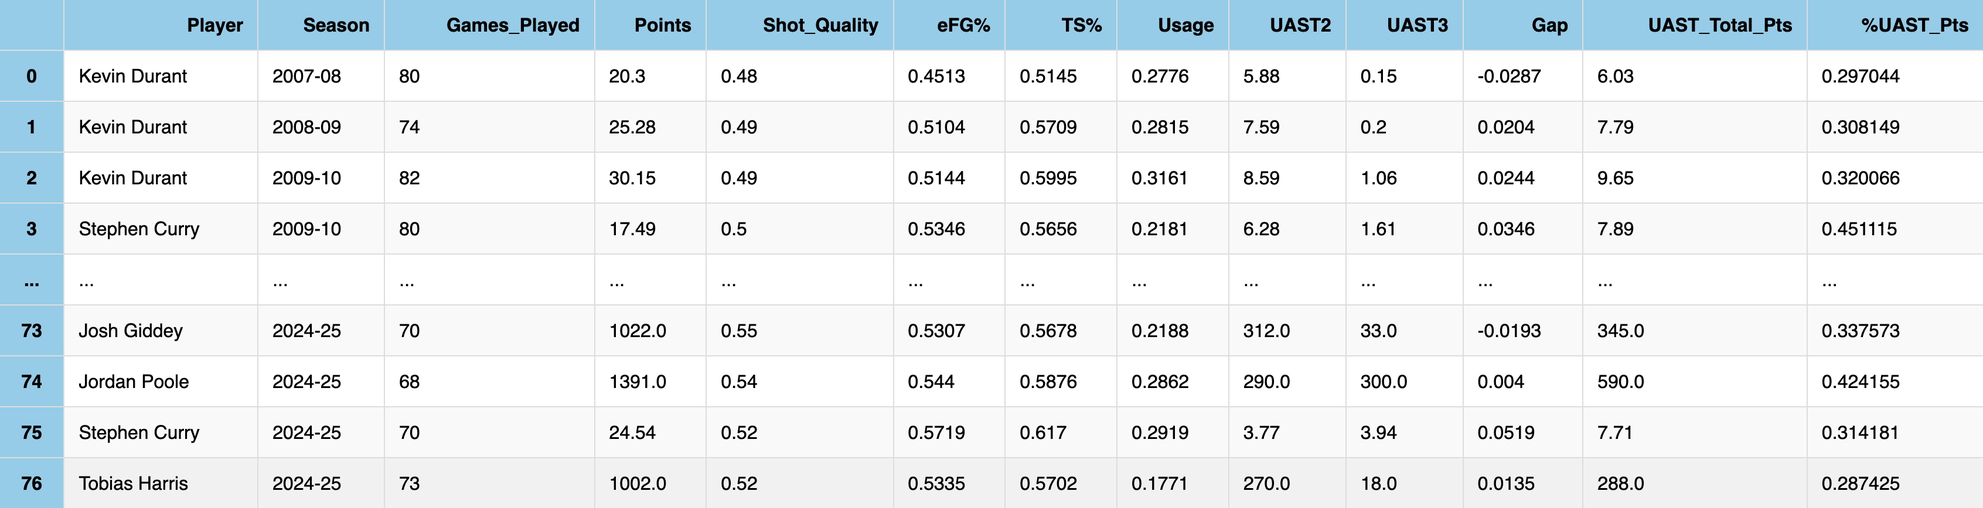
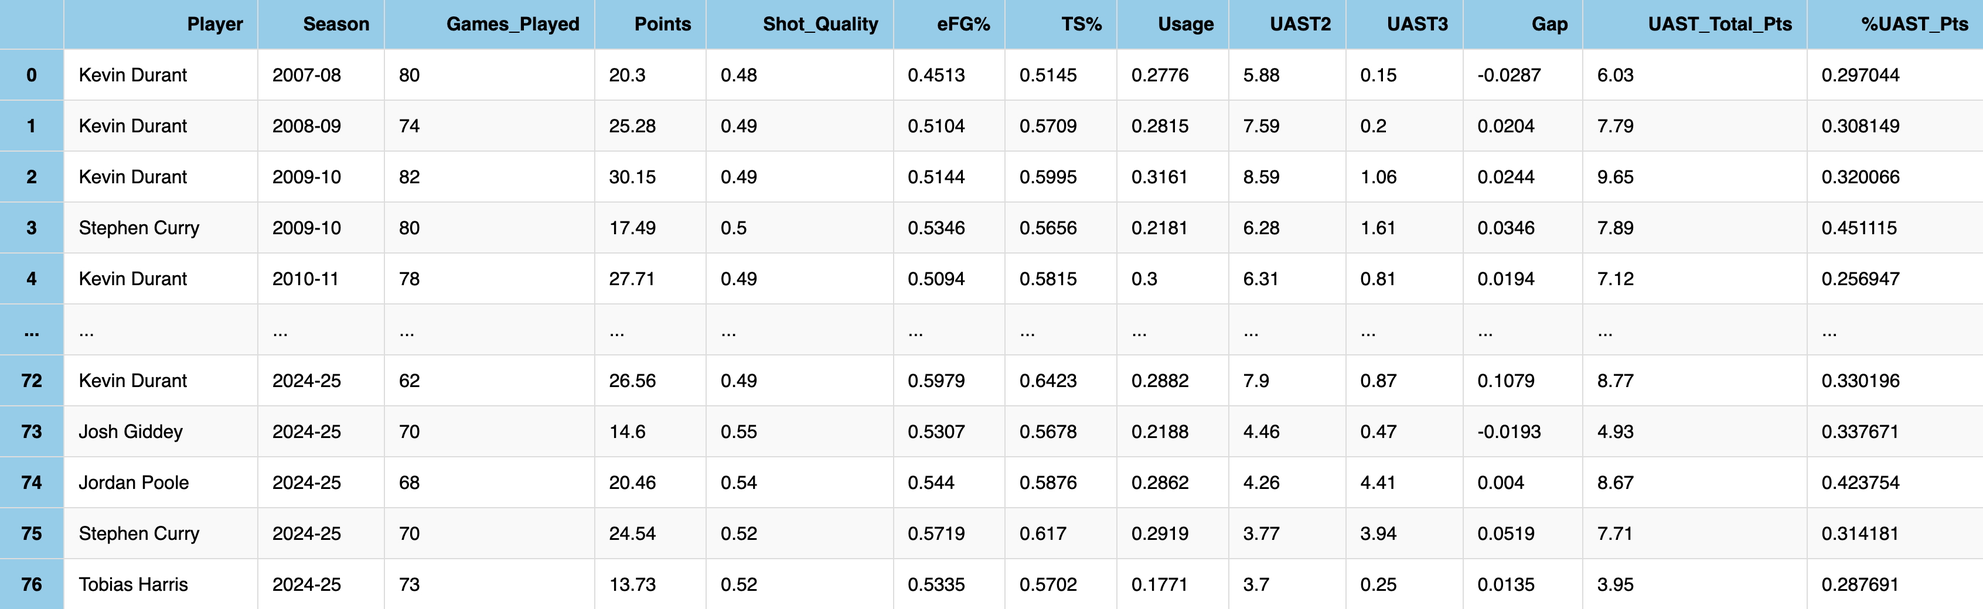
fixed error

diff --git a/img/self_created_scatter.html b/img/self_created_scatter.html
@@ -2,6 +2,6 @@
 <head><meta charset="utf-8" /></head>
 <body>
     <div>                        <script type="text/javascript">window.PlotlyConfig = {MathJaxConfig: 'local'};</script>
-        <script charset="utf-8" src="https://cdn.plot.ly/plotly-3.0.1.min.js" integrity="sha256-oy6Be7Eh6eiQFs5M7oXuPxxm9qbJXEtTpfSI93dW16Q=" crossorigin="anonymous"></script>                <div id="f269350f-81d9-4e6c-89c8-cefa861ba0f2" class="plotly-graph-div" style="height:600px; width:900px;"></div>            <script type="text/javascript">                window.PLOTLYENV=window.PLOTLYENV || {};                                if (document.getElementById("f269350f-81d9-4e6c-89c8-cefa861ba0f2")) {                    Plotly.newPlot(                        "f269350f-81d9-4e6c-89c8-cefa861ba0f2",                        [{"marker":{"color":"skyblue","line":{"color":"white","width":1},"size":10},"mode":"markers+text","name":"Player TS%","text":["Klay Thompson","Kyle Kuzma","Tobias Harris","Stephen Curry","Kevin Durant","Josh Giddey"],"textposition":"top right","x":{"dtype":"f8","bdata":"Y80IhLwLwD\u002fS2lLS2lLSPzfEgHQsZdI\u002fzHPfU4ob1D9vNHV+7SHVP61Zs2bNmtU\u002f"},"y":{"dtype":"f8","bdata":"93XgnBGl4T\u002fEQq1p3nHgPwK8BRIUP+I\u002fWDm0yHa+4z\u002fMEMe6uI3kP89m1edqK+I\u002f"},"type":"scatter"},{"marker":{"color":"skyblue","line":{"color":"white","width":1},"size":10},"mode":"markers+text","showlegend":false,"text":["Jordan Poole"],"textposition":"middle left","x":{"dtype":"f8","bdata":"hnZENFwl2z8="},"y":{"dtype":"f8","bdata":"ryXkg57N4j8="},"type":"scatter"},{"hoverinfo":"skip","line":{"color":"coral","dash":"dash","width":2},"mode":"lines","name":"Regression Line","x":{"dtype":"f8","bdata":"Y80IhLwLwD+LfZ2dom7AP7QtMreI0cA\u002f3N3G0G40wT8FjlvqVJfBPy0+8AM7+sE\u002fVu6EHSFdwj9+nhk3B8DCP6dOrlDtIsM\u002fz\u002f5CatOFwz\u002f4rteDuejDPyBfbJ2fS8Q\u002fSQ8Bt4WuxD9xv5XQaxHFP5pvKupRdMU\u002fwh+\u002fAzjXxT\u002frz1MdHjrGPxOA6DYEncY\u002fPDB9UOr\u002fxj9k4BFq0GLHP42QpoO2xcc\u002ftUA7nZwoyD\u002fe8M+2govIPwahZNBo7sg\u002fLlH56U5RyT9XAY4DNbTJP4CxIh0bF8o\u002fqGG3NgF6yj\u002fQEUxQ59zKP\u002fnB4GnNP8s\u002fInJ1g7Oiyz9KIgqdmQXMP3LSnrZ\u002faMw\u002fm4Iz0GXLzD\u002fEMsjpSy7NP+ziXAMykc0\u002fFJPxHBj0zT89Q4Y2\u002flbOP2bzGlDkuc4\u002fjqOvacoczz+2U0SDsH\u002fPP98D2ZyW4s8\u002fBNo2W74i0D8YMgFoMVTQPyyKy3SkhdA\u002fQOKVgRe30D9UOmCOiujQP2mSKpv9GdE\u002ffer0p3BL0T+SQr+043zRP6aaicFWrtE\u002fuvJTzsnf0T\u002fOSh7bPBHSP+Ki6OevQtI\u002f9vqy9CJ00j8LU30BlqXSPx+rRw4J19I\u002fNAMSG3wI0z9IW9wn7znTP1yzpjRia9M\u002fcAtxQdWc0z+EYztOSM7TP5i7BVu7\u002f9M\u002frRPQZy4x1D\u002fBa5p0oWLUP9XDZIEUlNQ\u002f6hsvjofF1D\u002f+c\u002fma+vbUPxLMw6dtKNU\u002fJiSOtOBZ1T86fFjBU4vVP07UIs7GvNU\u002fYyzt2jnu1T93hLfnrB\u002fWP4zcgfQfUdY\u002foDRMAZOC1j+0jBYOBrTWP8jk4Bp55dY\u002f3DyrJ+wW1z\u002fwlHU0X0jXPwXtP0HSedc\u002fGUUKTkWr1z8undRauNzXP0L1nmcrDtg\u002fVk1pdJ4\u002f2D9qpTOBEXHYP379\u002fY2Eotg\u002fklXImvfT2D+mrZKnagXZP7wFXbTdNtk\u002f0F0nwVBo2T\u002fktfHNw5nZP\u002fgNvNo2y9k\u002fDGaG56n82T8gvlD0HC7aPzQWGwGQX9o\u002fSG7lDQOR2j9cxq8adsLaP3Ieeifp89o\u002fhnZENFwl2z8="},"y":{"dtype":"f8","bdata":"Aa0WXiB94T\u002fcUmv3pYHhP7f4v5ArhuE\u002fkp4UKrGK4T9tRGnDNo\u002fhP0jqvVy8k+E\u002fI5AS9kGY4T\u002f+NWePx5zhP9nbuyhNoeE\u002ftIEQwtKl4T+PJ2VbWKrhP2rNufTdruE\u002fRXMOjmOz4T8gGWMn6bfhP\u002fu+t8BuvOE\u002f1mQMWvTA4T+xCmHzecXhP4ywtYz\u002fyeE\u002fZ1YKJoXO4T9C\u002fF6\u002fCtPhPx2is1iQ1+E\u002f+EcI8hXc4T\u002fT7VyLm+DhP66TsSQh5eE\u002fiDkGvqbp4T9k31pXLO7hPz6Fr\u002fCx8uE\u002fGSsEijf34T\u002f00FgjvfvhP892rbxCAOI\u002fqhwCVsgE4j+FwlbvTQniP2Boq4jTDeI\u002fOw4AIlkS4j8WtFS73hbiP\u002fFZqVRkG+I\u002fzP\u002f97ekf4j+npVKHbyTiP4JLpyD1KOI\u002fXfH7uXot4j84l1BTADLiPxM9peyFNuI\u002f7uL5hQs74j\u002fJiE4fkT\u002fiP6Quo7gWROI\u002ff9T3UZxI4j9aekzrIU3iPzUgoYSnUeI\u002fEMb1HS1W4j\u002fra0q3slriP8YRn1A4X+I\u002fobfz6b1j4j98XUiDQ2jiP1cDnRzJbOI\u002fMqnxtU5x4j8NT0ZP1HXiP+j0muhZeuI\u002fw5rvgd9+4j+eQEQbZYPiP3nmmLTqh+I\u002fVIztTXCM4j8vMkLn9ZDiPwrYloB7leI\u002f5X3rGQGa4j\u002fAI0Czhp7iP5rJlEwMo+I\u002fdm\u002fp5ZGn4j9QFT5\u002fF6ziPyu7khidsOI\u002fBmHnsSK14j\u002fhBjxLqLniP7yskOQtvuI\u002fl1LlfbPC4j9y+DkXOcfiP02ejrC+y+I\u002fKETjSUTQ4j8D6jfjydTiP96PjHxP2eI\u002fuTXhFdXd4j+U2zWvWuLiP2+Bikjg5uI\u002fSiff4WXr4j8lzTN76+\u002fiPwBziBRx9OI\u002f2xjdrfb44j+2vjFHfP3iP5FkhuABAuM\u002fbArbeYcG4z9HsC8TDQvjPyJWhKySD+M\u002f\u002ffvYRRgU4z\u002fYoS3fnRjjP7NHgngjHeM\u002fju3WEakh4z9pkyurLibjP0Q5gES0KuM\u002fH9\u002fU3Tkv4z\u002f6hCl3vzPjP9UqfhBFOOM\u002fsNDSqco84z8="},"type":"scatter"}],                        {"template":{"data":{"barpolar":[{"marker":{"line":{"color":"white","width":0.5},"pattern":{"fillmode":"overlay","size":10,"solidity":0.2}},"type":"barpolar"}],"bar":[{"error_x":{"color":"#2a3f5f"},"error_y":{"color":"#2a3f5f"},"marker":{"line":{"color":"white","width":0.5},"pattern":{"fillmode":"overlay","size":10,"solidity":0.2}},"type":"bar"}],"carpet":[{"aaxis":{"endlinecolor":"#2a3f5f","gridcolor":"#C8D4E3","linecolor":"#C8D4E3","minorgridcolor":"#C8D4E3","startlinecolor":"#2a3f5f"},"baxis":{"endlinecolor":"#2a3f5f","gridcolor":"#C8D4E3","linecolor":"#C8D4E3","minorgridcolor":"#C8D4E3","startlinecolor":"#2a3f5f"},"type":"carpet"}],"choropleth":[{"colorbar":{"outlinewidth":0,"ticks":""},"type":"choropleth"}],"contourcarpet":[{"colorbar":{"outlinewidth":0,"ticks":""},"type":"contourcarpet"}],"contour":[{"colorbar":{"outlinewidth":0,"ticks":""},"colorscale":[[0.0,"#0d0887"],[0.1111111111111111,"#46039f"],[0.2222222222222222,"#7201a8"],[0.3333333333333333,"#9c179e"],[0.4444444444444444,"#bd3786"],[0.5555555555555556,"#d8576b"],[0.6666666666666666,"#ed7953"],[0.7777777777777778,"#fb9f3a"],[0.8888888888888888,"#fdca26"],[1.0,"#f0f921"]],"type":"contour"}],"heatmap":[{"colorbar":{"outlinewidth":0,"ticks":""},"colorscale":[[0.0,"#0d0887"],[0.1111111111111111,"#46039f"],[0.2222222222222222,"#7201a8"],[0.3333333333333333,"#9c179e"],[0.4444444444444444,"#bd3786"],[0.5555555555555556,"#d8576b"],[0.6666666666666666,"#ed7953"],[0.7777777777777778,"#fb9f3a"],[0.8888888888888888,"#fdca26"],[1.0,"#f0f921"]],"type":"heatmap"}],"histogram2dcontour":[{"colorbar":{"outlinewidth":0,"ticks":""},"colorscale":[[0.0,"#0d0887"],[0.1111111111111111,"#46039f"],[0.2222222222222222,"#7201a8"],[0.3333333333333333,"#9c179e"],[0.4444444444444444,"#bd3786"],[0.5555555555555556,"#d8576b"],[0.6666666666666666,"#ed7953"],[0.7777777777777778,"#fb9f3a"],[0.8888888888888888,"#fdca26"],[1.0,"#f0f921"]],"type":"histogram2dcontour"}],"histogram2d":[{"colorbar":{"outlinewidth":0,"ticks":""},"colorscale":[[0.0,"#0d0887"],[0.1111111111111111,"#46039f"],[0.2222222222222222,"#7201a8"],[0.3333333333333333,"#9c179e"],[0.4444444444444444,"#bd3786"],[0.5555555555555556,"#d8576b"],[0.6666666666666666,"#ed7953"],[0.7777777777777778,"#fb9f3a"],[0.8888888888888888,"#fdca26"],[1.0,"#f0f921"]],"type":"histogram2d"}],"histogram":[{"marker":{"pattern":{"fillmode":"overlay","size":10,"solidity":0.2}},"type":"histogram"}],"mesh3d":[{"colorbar":{"outlinewidth":0,"ticks":""},"type":"mesh3d"}],"parcoords":[{"line":{"colorbar":{"outlinewidth":0,"ticks":""}},"type":"parcoords"}],"pie":[{"automargin":true,"type":"pie"}],"scatter3d":[{"line":{"colorbar":{"outlinewidth":0,"ticks":""}},"marker":{"colorbar":{"outlinewidth":0,"ticks":""}},"type":"scatter3d"}],"scattercarpet":[{"marker":{"colorbar":{"outlinewidth":0,"ticks":""}},"type":"scattercarpet"}],"scattergeo":[{"marker":{"colorbar":{"outlinewidth":0,"ticks":""}},"type":"scattergeo"}],"scattergl":[{"marker":{"colorbar":{"outlinewidth":0,"ticks":""}},"type":"scattergl"}],"scattermapbox":[{"marker":{"colorbar":{"outlinewidth":0,"ticks":""}},"type":"scattermapbox"}],"scattermap":[{"marker":{"colorbar":{"outlinewidth":0,"ticks":""}},"type":"scattermap"}],"scatterpolargl":[{"marker":{"colorbar":{"outlinewidth":0,"ticks":""}},"type":"scatterpolargl"}],"scatterpolar":[{"marker":{"colorbar":{"outlinewidth":0,"ticks":""}},"type":"scatterpolar"}],"scatter":[{"fillpattern":{"fillmode":"overlay","size":10,"solidity":0.2},"type":"scatter"}],"scatterternary":[{"marker":{"colorbar":{"outlinewidth":0,"ticks":""}},"type":"scatterternary"}],"surface":[{"colorbar":{"outlinewidth":0,"ticks":""},"colorscale":[[0.0,"#0d0887"],[0.1111111111111111,"#46039f"],[0.2222222222222222,"#7201a8"],[0.3333333333333333,"#9c179e"],[0.4444444444444444,"#bd3786"],[0.5555555555555556,"#d8576b"],[0.6666666666666666,"#ed7953"],[0.7777777777777778,"#fb9f3a"],[0.8888888888888888,"#fdca26"],[1.0,"#f0f921"]],"type":"surface"}],"table":[{"cells":{"fill":{"color":"#EBF0F8"},"line":{"color":"white"}},"header":{"fill":{"color":"#C8D4E3"},"line":{"color":"white"}},"type":"table"}]},"layout":{"annotationdefaults":{"arrowcolor":"#2a3f5f","arrowhead":0,"arrowwidth":1},"autotypenumbers":"strict","coloraxis":{"colorbar":{"outlinewidth":0,"ticks":""}},"colorscale":{"diverging":[[0,"#8e0152"],[0.1,"#c51b7d"],[0.2,"#de77ae"],[0.3,"#f1b6da"],[0.4,"#fde0ef"],[0.5,"#f7f7f7"],[0.6,"#e6f5d0"],[0.7,"#b8e186"],[0.8,"#7fbc41"],[0.9,"#4d9221"],[1,"#276419"]],"sequential":[[0.0,"#0d0887"],[0.1111111111111111,"#46039f"],[0.2222222222222222,"#7201a8"],[0.3333333333333333,"#9c179e"],[0.4444444444444444,"#bd3786"],[0.5555555555555556,"#d8576b"],[0.6666666666666666,"#ed7953"],[0.7777777777777778,"#fb9f3a"],[0.8888888888888888,"#fdca26"],[1.0,"#f0f921"]],"sequentialminus":[[0.0,"#0d0887"],[0.1111111111111111,"#46039f"],[0.2222222222222222,"#7201a8"],[0.3333333333333333,"#9c179e"],[0.4444444444444444,"#bd3786"],[0.5555555555555556,"#d8576b"],[0.6666666666666666,"#ed7953"],[0.7777777777777778,"#fb9f3a"],[0.8888888888888888,"#fdca26"],[1.0,"#f0f921"]]},"colorway":["#636efa","#EF553B","#00cc96","#ab63fa","#FFA15A","#19d3f3","#FF6692","#B6E880","#FF97FF","#FECB52"],"font":{"color":"#2a3f5f"},"geo":{"bgcolor":"white","lakecolor":"white","landcolor":"white","showlakes":true,"showland":true,"subunitcolor":"#C8D4E3"},"hoverlabel":{"align":"left"},"hovermode":"closest","mapbox":{"style":"light"},"paper_bgcolor":"white","plot_bgcolor":"white","polar":{"angularaxis":{"gridcolor":"#EBF0F8","linecolor":"#EBF0F8","ticks":""},"bgcolor":"white","radialaxis":{"gridcolor":"#EBF0F8","linecolor":"#EBF0F8","ticks":""}},"scene":{"xaxis":{"backgroundcolor":"white","gridcolor":"#DFE8F3","gridwidth":2,"linecolor":"#EBF0F8","showbackground":true,"ticks":"","zerolinecolor":"#EBF0F8"},"yaxis":{"backgroundcolor":"white","gridcolor":"#DFE8F3","gridwidth":2,"linecolor":"#EBF0F8","showbackground":true,"ticks":"","zerolinecolor":"#EBF0F8"},"zaxis":{"backgroundcolor":"white","gridcolor":"#DFE8F3","gridwidth":2,"linecolor":"#EBF0F8","showbackground":true,"ticks":"","zerolinecolor":"#EBF0F8"}},"shapedefaults":{"line":{"color":"#2a3f5f"}},"ternary":{"aaxis":{"gridcolor":"#DFE8F3","linecolor":"#A2B1C6","ticks":""},"baxis":{"gridcolor":"#DFE8F3","linecolor":"#A2B1C6","ticks":""},"bgcolor":"white","caxis":{"gridcolor":"#DFE8F3","linecolor":"#A2B1C6","ticks":""}},"title":{"x":0.05},"xaxis":{"automargin":true,"gridcolor":"#EBF0F8","linecolor":"#EBF0F8","ticks":"","title":{"standoff":15},"zerolinecolor":"#EBF0F8","zerolinewidth":2},"yaxis":{"automargin":true,"gridcolor":"#EBF0F8","linecolor":"#EBF0F8","ticks":"","title":{"standoff":15},"zerolinecolor":"#EBF0F8","zerolinewidth":2}}},"legend":{"x":1,"y":1.0,"xanchor":"right","yanchor":"top","orientation":"v"},"margin":{"l":50,"r":100,"t":50,"b":50},"xaxis":{"title":{"text":"Self-Created Scoring Rate (% of Unassisted Points)"}},"yaxis":{"title":{"text":"True Shooting % (TS%)"}},"height":600,"width":900},                        {"responsive": true}                    )                };            </script>        </div>
+        <script charset="utf-8" src="https://cdn.plot.ly/plotly-3.0.1.min.js" integrity="sha256-oy6Be7Eh6eiQFs5M7oXuPxxm9qbJXEtTpfSI93dW16Q=" crossorigin="anonymous"></script>                <div id="53e338ce-6213-43a1-b307-e5c3a762da44" class="plotly-graph-div" style="height:600px; width:900px;"></div>            <script type="text/javascript">                window.PLOTLYENV=window.PLOTLYENV || {};                                if (document.getElementById("53e338ce-6213-43a1-b307-e5c3a762da44")) {                    Plotly.newPlot(                        "53e338ce-6213-43a1-b307-e5c3a762da44",                        [{"marker":{"color":"skyblue","line":{"color":"white","width":1},"size":10},"mode":"markers+text","name":"Player TS%","text":["Klay Thompson","Kyle Kuzma","Tobias Harris","Stephen Curry","Kevin Durant","Josh Giddey"],"textposition":"top right","x":{"dtype":"f8","bdata":"Y80IhLwLwD9V2Z\u002fmWFfSPzOlEkyIadI\u002fzHPfU4ob1D9vNHV+7SHVP8ZZgM1nnNU\u002f"},"y":{"dtype":"f8","bdata":"93XgnBGl4T\u002fEQq1p3nHgPwK8BRIUP+I\u002fWDm0yHa+4z\u002fMEMe6uI3kP89m1edqK+I\u002f"},"type":"scatter"},{"marker":{"color":"skyblue","line":{"color":"white","width":1},"size":10},"mode":"markers+text","showlegend":false,"text":["Jordan Poole"],"textposition":"middle left","x":{"dtype":"f8","bdata":"Hnvsscce2z8="},"y":{"dtype":"f8","bdata":"ryXkg57N4j8="},"type":"scatter"},{"hoverinfo":"skip","line":{"color":"coral","dash":"dash","width":2},"mode":"lines","name":"Regression Line","x":{"dtype":"f8","bdata":"Y80IhLwLwD8fbs+VgG7AP9wOlqdE0cA\u002fmK9cuQg0wT9UUCPLzJbBPxHx6dyQ+cE\u002fzZGw7lRcwj+KMncAGb\u002fCP0bTPRLdIcM\u002fAnQEJKGEwz+\u002fFMs1ZefDP3u1kUcpSsQ\u002fN1ZYWe2sxD\u002f09h5rsQ\u002fFP7CX5Xx1csU\u002fbDisjjnVxT8p2XKg\u002fTfGP+V5ObLBmsY\u002fohoAxIX9xj9eu8bVSWDHPxpcjecNw8c\u002f1vxT+dElyD+TnRoLlojIP1A+4Rxa68g\u002fDN+nLh5OyT\u002fIf25A4rDJP4QgNVKmE8o\u002fQMH7Y2p2yj\u002f9YcJ1LtnKP7oCiYfyO8s\u002fdqNPmbaeyz8yRBaregHMP+7k3Lw+ZMw\u002fq4WjzgLHzD9nJmrgxinNPyTHMPKKjM0\u002f4Gf3A0\u002fvzT+cCL4VE1LOP1iphCfXtM4\u002fFUpLOZsXzz\u002fS6hFLX3rPP46L2Fwj3c8\u002fJZZPt\u002fMf0D+D5jLAVVHQP+I2Fsm3gtA\u002fQIf50Rm00D+e19zae+XQP\u002fwnwOPdFtE\u002fWnij7D9I0T+4yIb1oXnRPxYZav4Dq9E\u002fdGlNB2bc0T\u002fTuTAQyA3SPzEKFBkqP9I\u002fj1r3IYxw0j\u002fuqtoq7qHSP0z7vTNQ09I\u002fqkuhPLIE0z8InIRFFDbTP2bsZ052Z9M\u002fxDxLV9iY0z8ijS5gOsrTP4DdEWmc+9M\u002f3y31cf4s1D89fth6YF7UP5vOu4PCj9Q\u002f+h6fjCTB1D9Yb4KVhvLUP7a\u002fZZ7oI9U\u002fFBBJp0pV1T9yYCywrIbVP9CwD7kOuNU\u002fLgHzwXDp1T+MUdbK0hrWP+uhudM0TNY\u002fSfKc3JZ91j+nQoDl+K7WPwaTY+5a4NY\u002fZONG97wR1z\u002fCMyoAH0PXPyCEDQmBdNc\u002fftTwEeOl1z\u002fcJNQaRdfXPzp1tyOnCNg\u002fmMWaLAk62D\u002f2FX41a2vYP1RmYT7NnNg\u002ftLZERy\u002fO2D8SByhQkf\u002fYP3BXC1nzMNk\u002fzqfuYVVi2T8s+NFqt5PZP4pItXMZxdk\u002f6JiYfHv22T9G6XuF3SfaP6Q5X44\u002fWdo\u002fAopCl6GK2j9g2iWgA7zaP8AqCall7do\u002fHnvsscce2z8="},"y":{"dtype":"f8","bdata":"JYnfUTp94T\u002fatbuxvYHhP4\u002filxFBhuE\u002fRA90ccSK4T\u002f5O1DRR4\u002fhP65oLDHLk+E\u002fY5UIkU6Y4T8YwuTw0ZzhP87uwFBVoeE\u002fgxudsNil4T84SHkQXKrhP+10VXDfruE\u002foqEx0GKz4T9Xzg0w5rfhPwz76Y9pvOE\u002fwSfG7+zA4T92VKJPcMXhPyuBfq\u002fzyeE\u002f4K1aD3fO4T+V2jZv+tLhP0oHE8991+E\u002f\u002fzPvLgHc4T+0YMuOhODhP2qNp+4H5eE\u002fH7qDTovp4T\u002fU5l+uDu7hP4kTPA6S8uE\u002fPkAYbhX34T\u002fzbPTNmPvhP6iZ0C0cAOI\u002fXcasjZ8E4j8S84jtIgniP8cfZU2mDeI\u002ffExBrSkS4j8xeR0NrRbiP+al+WwwG+I\u002fnNLVzLMf4j9R\u002f7EsNyTiPwYsjoy6KOI\u002fu1hq7D0t4j9whUZMwTHiPyWyIqxENuI\u002f2t7+C8g64j+PC9trSz\u002fiP0Q4t8vOQ+I\u002f+WSTK1JI4j+ukW+L1UziP2O+S+tYUeI\u002fGOsnS9xV4j\u002fNFwSrX1riP4JE4ArjXuI\u002fN3G8amZj4j\u002ftnZjK6WfiP6LKdCptbOI\u002fV\u002fdQivBw4j8MJC3qc3XiP8FQCUr3eeI\u002fdn3lqXp+4j8rqsEJ\u002foLiP+DWnWmBh+I\u002flQN6yQSM4j9KMFYpiJDiP\u002f9cMokLleI\u002ftIkO6Y6Z4j9ptupIEp7iPx7jxqiVouI\u002f1A+jCBmn4j+JPH9onKviPz5pW8gfsOI\u002f85U3KKO04j+owhOIJrniP13v7+epveI\u002fEhzMRy3C4j\u002fHSKinsMbiP3x1hAc0y+I\u002fMaJgZ7fP4j\u002fmzjzHOtTiP5v7GCe+2OI\u002fUCj1hkHd4j8GVdHmxOHiP7qBrUZI5uI\u002fcK6Jpsvq4j8l22UGT+\u002fiP9oHQmbS8+I\u002fjzQexlX44j9EYfol2fziP\u002fmN1oVcAeM\u002frrqy5d8F4z9j545FYwrjPxgUa6XmDuM\u002fzUBHBWoT4z+CbSNl7RfjPzea\u002f8RwHOM\u002f7MbbJPQg4z+i87eEdyXjP1YglOT6KeM\u002fDE1wRH4u4z\u002fBeUykATPjP3amKASFN+M\u002fK9MEZAg84z8="},"type":"scatter"}],                        {"template":{"data":{"barpolar":[{"marker":{"line":{"color":"white","width":0.5},"pattern":{"fillmode":"overlay","size":10,"solidity":0.2}},"type":"barpolar"}],"bar":[{"error_x":{"color":"#2a3f5f"},"error_y":{"color":"#2a3f5f"},"marker":{"line":{"color":"white","width":0.5},"pattern":{"fillmode":"overlay","size":10,"solidity":0.2}},"type":"bar"}],"carpet":[{"aaxis":{"endlinecolor":"#2a3f5f","gridcolor":"#C8D4E3","linecolor":"#C8D4E3","minorgridcolor":"#C8D4E3","startlinecolor":"#2a3f5f"},"baxis":{"endlinecolor":"#2a3f5f","gridcolor":"#C8D4E3","linecolor":"#C8D4E3","minorgridcolor":"#C8D4E3","startlinecolor":"#2a3f5f"},"type":"carpet"}],"choropleth":[{"colorbar":{"outlinewidth":0,"ticks":""},"type":"choropleth"}],"contourcarpet":[{"colorbar":{"outlinewidth":0,"ticks":""},"type":"contourcarpet"}],"contour":[{"colorbar":{"outlinewidth":0,"ticks":""},"colorscale":[[0.0,"#0d0887"],[0.1111111111111111,"#46039f"],[0.2222222222222222,"#7201a8"],[0.3333333333333333,"#9c179e"],[0.4444444444444444,"#bd3786"],[0.5555555555555556,"#d8576b"],[0.6666666666666666,"#ed7953"],[0.7777777777777778,"#fb9f3a"],[0.8888888888888888,"#fdca26"],[1.0,"#f0f921"]],"type":"contour"}],"heatmap":[{"colorbar":{"outlinewidth":0,"ticks":""},"colorscale":[[0.0,"#0d0887"],[0.1111111111111111,"#46039f"],[0.2222222222222222,"#7201a8"],[0.3333333333333333,"#9c179e"],[0.4444444444444444,"#bd3786"],[0.5555555555555556,"#d8576b"],[0.6666666666666666,"#ed7953"],[0.7777777777777778,"#fb9f3a"],[0.8888888888888888,"#fdca26"],[1.0,"#f0f921"]],"type":"heatmap"}],"histogram2dcontour":[{"colorbar":{"outlinewidth":0,"ticks":""},"colorscale":[[0.0,"#0d0887"],[0.1111111111111111,"#46039f"],[0.2222222222222222,"#7201a8"],[0.3333333333333333,"#9c179e"],[0.4444444444444444,"#bd3786"],[0.5555555555555556,"#d8576b"],[0.6666666666666666,"#ed7953"],[0.7777777777777778,"#fb9f3a"],[0.8888888888888888,"#fdca26"],[1.0,"#f0f921"]],"type":"histogram2dcontour"}],"histogram2d":[{"colorbar":{"outlinewidth":0,"ticks":""},"colorscale":[[0.0,"#0d0887"],[0.1111111111111111,"#46039f"],[0.2222222222222222,"#7201a8"],[0.3333333333333333,"#9c179e"],[0.4444444444444444,"#bd3786"],[0.5555555555555556,"#d8576b"],[0.6666666666666666,"#ed7953"],[0.7777777777777778,"#fb9f3a"],[0.8888888888888888,"#fdca26"],[1.0,"#f0f921"]],"type":"histogram2d"}],"histogram":[{"marker":{"pattern":{"fillmode":"overlay","size":10,"solidity":0.2}},"type":"histogram"}],"mesh3d":[{"colorbar":{"outlinewidth":0,"ticks":""},"type":"mesh3d"}],"parcoords":[{"line":{"colorbar":{"outlinewidth":0,"ticks":""}},"type":"parcoords"}],"pie":[{"automargin":true,"type":"pie"}],"scatter3d":[{"line":{"colorbar":{"outlinewidth":0,"ticks":""}},"marker":{"colorbar":{"outlinewidth":0,"ticks":""}},"type":"scatter3d"}],"scattercarpet":[{"marker":{"colorbar":{"outlinewidth":0,"ticks":""}},"type":"scattercarpet"}],"scattergeo":[{"marker":{"colorbar":{"outlinewidth":0,"ticks":""}},"type":"scattergeo"}],"scattergl":[{"marker":{"colorbar":{"outlinewidth":0,"ticks":""}},"type":"scattergl"}],"scattermapbox":[{"marker":{"colorbar":{"outlinewidth":0,"ticks":""}},"type":"scattermapbox"}],"scattermap":[{"marker":{"colorbar":{"outlinewidth":0,"ticks":""}},"type":"scattermap"}],"scatterpolargl":[{"marker":{"colorbar":{"outlinewidth":0,"ticks":""}},"type":"scatterpolargl"}],"scatterpolar":[{"marker":{"colorbar":{"outlinewidth":0,"ticks":""}},"type":"scatterpolar"}],"scatter":[{"fillpattern":{"fillmode":"overlay","size":10,"solidity":0.2},"type":"scatter"}],"scatterternary":[{"marker":{"colorbar":{"outlinewidth":0,"ticks":""}},"type":"scatterternary"}],"surface":[{"colorbar":{"outlinewidth":0,"ticks":""},"colorscale":[[0.0,"#0d0887"],[0.1111111111111111,"#46039f"],[0.2222222222222222,"#7201a8"],[0.3333333333333333,"#9c179e"],[0.4444444444444444,"#bd3786"],[0.5555555555555556,"#d8576b"],[0.6666666666666666,"#ed7953"],[0.7777777777777778,"#fb9f3a"],[0.8888888888888888,"#fdca26"],[1.0,"#f0f921"]],"type":"surface"}],"table":[{"cells":{"fill":{"color":"#EBF0F8"},"line":{"color":"white"}},"header":{"fill":{"color":"#C8D4E3"},"line":{"color":"white"}},"type":"table"}]},"layout":{"annotationdefaults":{"arrowcolor":"#2a3f5f","arrowhead":0,"arrowwidth":1},"autotypenumbers":"strict","coloraxis":{"colorbar":{"outlinewidth":0,"ticks":""}},"colorscale":{"diverging":[[0,"#8e0152"],[0.1,"#c51b7d"],[0.2,"#de77ae"],[0.3,"#f1b6da"],[0.4,"#fde0ef"],[0.5,"#f7f7f7"],[0.6,"#e6f5d0"],[0.7,"#b8e186"],[0.8,"#7fbc41"],[0.9,"#4d9221"],[1,"#276419"]],"sequential":[[0.0,"#0d0887"],[0.1111111111111111,"#46039f"],[0.2222222222222222,"#7201a8"],[0.3333333333333333,"#9c179e"],[0.4444444444444444,"#bd3786"],[0.5555555555555556,"#d8576b"],[0.6666666666666666,"#ed7953"],[0.7777777777777778,"#fb9f3a"],[0.8888888888888888,"#fdca26"],[1.0,"#f0f921"]],"sequentialminus":[[0.0,"#0d0887"],[0.1111111111111111,"#46039f"],[0.2222222222222222,"#7201a8"],[0.3333333333333333,"#9c179e"],[0.4444444444444444,"#bd3786"],[0.5555555555555556,"#d8576b"],[0.6666666666666666,"#ed7953"],[0.7777777777777778,"#fb9f3a"],[0.8888888888888888,"#fdca26"],[1.0,"#f0f921"]]},"colorway":["#636efa","#EF553B","#00cc96","#ab63fa","#FFA15A","#19d3f3","#FF6692","#B6E880","#FF97FF","#FECB52"],"font":{"color":"#2a3f5f"},"geo":{"bgcolor":"white","lakecolor":"white","landcolor":"white","showlakes":true,"showland":true,"subunitcolor":"#C8D4E3"},"hoverlabel":{"align":"left"},"hovermode":"closest","mapbox":{"style":"light"},"paper_bgcolor":"white","plot_bgcolor":"white","polar":{"angularaxis":{"gridcolor":"#EBF0F8","linecolor":"#EBF0F8","ticks":""},"bgcolor":"white","radialaxis":{"gridcolor":"#EBF0F8","linecolor":"#EBF0F8","ticks":""}},"scene":{"xaxis":{"backgroundcolor":"white","gridcolor":"#DFE8F3","gridwidth":2,"linecolor":"#EBF0F8","showbackground":true,"ticks":"","zerolinecolor":"#EBF0F8"},"yaxis":{"backgroundcolor":"white","gridcolor":"#DFE8F3","gridwidth":2,"linecolor":"#EBF0F8","showbackground":true,"ticks":"","zerolinecolor":"#EBF0F8"},"zaxis":{"backgroundcolor":"white","gridcolor":"#DFE8F3","gridwidth":2,"linecolor":"#EBF0F8","showbackground":true,"ticks":"","zerolinecolor":"#EBF0F8"}},"shapedefaults":{"line":{"color":"#2a3f5f"}},"ternary":{"aaxis":{"gridcolor":"#DFE8F3","linecolor":"#A2B1C6","ticks":""},"baxis":{"gridcolor":"#DFE8F3","linecolor":"#A2B1C6","ticks":""},"bgcolor":"white","caxis":{"gridcolor":"#DFE8F3","linecolor":"#A2B1C6","ticks":""}},"title":{"x":0.05},"xaxis":{"automargin":true,"gridcolor":"#EBF0F8","linecolor":"#EBF0F8","ticks":"","title":{"standoff":15},"zerolinecolor":"#EBF0F8","zerolinewidth":2},"yaxis":{"automargin":true,"gridcolor":"#EBF0F8","linecolor":"#EBF0F8","ticks":"","title":{"standoff":15},"zerolinecolor":"#EBF0F8","zerolinewidth":2}}},"legend":{"x":1,"y":1.0,"xanchor":"right","yanchor":"top","orientation":"v"},"margin":{"l":50,"r":100,"t":50,"b":50},"xaxis":{"title":{"text":"Self-Created Scoring Rate (% of Unassisted Points)"}},"yaxis":{"title":{"text":"True Shooting % (TS%)"}},"height":600,"width":900},                        {"responsive": true}                    )                };            </script>        </div>
 </body>
 </html>

diff --git a/img/cleaned_preview.html b/img/cleaned_preview.html
@@ -1,0 +1,235 @@
+
+<html>
+<head>
+<style>
+.preview-table {
+    border-collapse: collapse;
+    width: 100%;
+    font-family: sans-serif;
+    font-size: 16px;
+    color: black;
+}
+
+.preview-table th {
+    background-color: skyblue;
+    color: black;
+    padding: 12px;
+    border: 1px solid #ddd;
+}
+
+.preview-table td {
+    padding: 12px;
+    border: 1px solid #ddd;
+    color: black;
+}
+
+.preview-table tr:nth-child(even) {
+    background-color: #f9f9f9;
+}
+
+.preview-table tr:hover {
+    background-color: #f1f1f1;
+}
+</style>
+</head>
+<body>
+<table class="dataframe preview-table">
+  <thead>
+    <tr style="text-align: right;">
+      <th></th>
+      <th>Player</th>
+      <th>Season</th>
+      <th>Games_Played</th>
+      <th>Points</th>
+      <th>Shot_Quality</th>
+      <th>eFG%</th>
+      <th>TS%</th>
+      <th>Usage</th>
+      <th>UAST2</th>
+      <th>UAST3</th>
+      <th>Gap</th>
+      <th>UAST_Total_Pts</th>
+      <th>%UAST_Pts</th>
+    </tr>
+  </thead>
+  <tbody>
+    <tr>
+      <th>0</th>
+      <td>Kevin Durant</td>
+      <td>2007-08</td>
+      <td>80</td>
+      <td>20.3</td>
+      <td>0.48</td>
+      <td>0.4513</td>
+      <td>0.5145</td>
+      <td>0.2776</td>
+      <td>5.88</td>
+      <td>0.15</td>
+      <td>-0.0287</td>
+      <td>6.03</td>
+      <td>0.297044</td>
+    </tr>
+    <tr>
+      <th>1</th>
+      <td>Kevin Durant</td>
+      <td>2008-09</td>
+      <td>74</td>
+      <td>25.28</td>
+      <td>0.49</td>
+      <td>0.5104</td>
+      <td>0.5709</td>
+      <td>0.2815</td>
+      <td>7.59</td>
+      <td>0.2</td>
+      <td>0.0204</td>
+      <td>7.79</td>
+      <td>0.308149</td>
+    </tr>
+    <tr>
+      <th>2</th>
+      <td>Kevin Durant</td>
+      <td>2009-10</td>
+      <td>82</td>
+      <td>30.15</td>
+      <td>0.49</td>
+      <td>0.5144</td>
+      <td>0.5995</td>
+      <td>0.3161</td>
+      <td>8.59</td>
+      <td>1.06</td>
+      <td>0.0244</td>
+      <td>9.65</td>
+      <td>0.320066</td>
+    </tr>
+    <tr>
+      <th>3</th>
+      <td>Stephen Curry</td>
+      <td>2009-10</td>
+      <td>80</td>
+      <td>17.49</td>
+      <td>0.5</td>
+      <td>0.5346</td>
+      <td>0.5656</td>
+      <td>0.2181</td>
+      <td>6.28</td>
+      <td>1.61</td>
+      <td>0.0346</td>
+      <td>7.89</td>
+      <td>0.451115</td>
+    </tr>
+    <tr>
+      <th>4</th>
+      <td>Kevin Durant</td>
+      <td>2010-11</td>
+      <td>78</td>
+      <td>27.71</td>
+      <td>0.49</td>
+      <td>0.5094</td>
+      <td>0.5815</td>
+      <td>0.3</td>
+      <td>6.31</td>
+      <td>0.81</td>
+      <td>0.0194</td>
+      <td>7.12</td>
+      <td>0.256947</td>
+    </tr>
+    <tr>
+      <th>...</th>
+      <td>...</td>
+      <td>...</td>
+      <td>...</td>
+      <td>...</td>
+      <td>...</td>
+      <td>...</td>
+      <td>...</td>
+      <td>...</td>
+      <td>...</td>
+      <td>...</td>
+      <td>...</td>
+      <td>...</td>
+      <td>...</td>
+    </tr>
+    <tr>
+      <th>72</th>
+      <td>Kevin Durant</td>
+      <td>2024-25</td>
+      <td>62</td>
+      <td>26.56</td>
+      <td>0.49</td>
+      <td>0.5979</td>
+      <td>0.6423</td>
+      <td>0.2882</td>
+      <td>7.9</td>
+      <td>0.87</td>
+      <td>0.1079</td>
+      <td>8.77</td>
+      <td>0.330196</td>
+    </tr>
+    <tr>
+      <th>73</th>
+      <td>Josh Giddey</td>
+      <td>2024-25</td>
+      <td>70</td>
+      <td>14.6</td>
+      <td>0.55</td>
+      <td>0.5307</td>
+      <td>0.5678</td>
+      <td>0.2188</td>
+      <td>4.46</td>
+      <td>0.47</td>
+      <td>-0.0193</td>
+      <td>4.93</td>
+      <td>0.337671</td>
+    </tr>
+    <tr>
+      <th>74</th>
+      <td>Jordan Poole</td>
+      <td>2024-25</td>
+      <td>68</td>
+      <td>20.46</td>
+      <td>0.54</td>
+      <td>0.544</td>
+      <td>0.5876</td>
+      <td>0.2862</td>
+      <td>4.26</td>
+      <td>4.41</td>
+      <td>0.004</td>
+      <td>8.67</td>
+      <td>0.423754</td>
+    </tr>
+    <tr>
+      <th>75</th>
+      <td>Stephen Curry</td>
+      <td>2024-25</td>
+      <td>70</td>
+      <td>24.54</td>
+      <td>0.52</td>
+      <td>0.5719</td>
+      <td>0.617</td>
+      <td>0.2919</td>
+      <td>3.77</td>
+      <td>3.94</td>
+      <td>0.0519</td>
+      <td>7.71</td>
+      <td>0.314181</td>
+    </tr>
+    <tr>
+      <th>76</th>
+      <td>Tobias Harris</td>
+      <td>2024-25</td>
+      <td>73</td>
+      <td>13.73</td>
+      <td>0.52</td>
+      <td>0.5335</td>
+      <td>0.5702</td>
+      <td>0.1771</td>
+      <td>3.7</td>
+      <td>0.25</td>
+      <td>0.0135</td>
+      <td>3.95</td>
+      <td>0.287691</td>
+    </tr>
+  </tbody>
+</table>
+</body>
+</html>

diff --git a/index.md b/index.md
@@ -15,7 +15,7 @@ There are many nba shooters in the league...
 
 **Are prolific scorers like Kevin Durant, Stephen Curry, and Klay Thompson elite shooters because they get great looks, or because they consistently make tough shots and outperform shot quality metrics?**
 
-### Cleaned Dataframe: Advanced Shooting Metrics by Season for Selected Players
+### Cleaned Dataframe: Advanced Shooting Metrics per Game by Season for Selected Players
 
 <div style="width: 100vw; position: relative; left: 50%; margin-left: -50vw; padding: 2rem 0; box-sizing: border-box;">
   <img 
